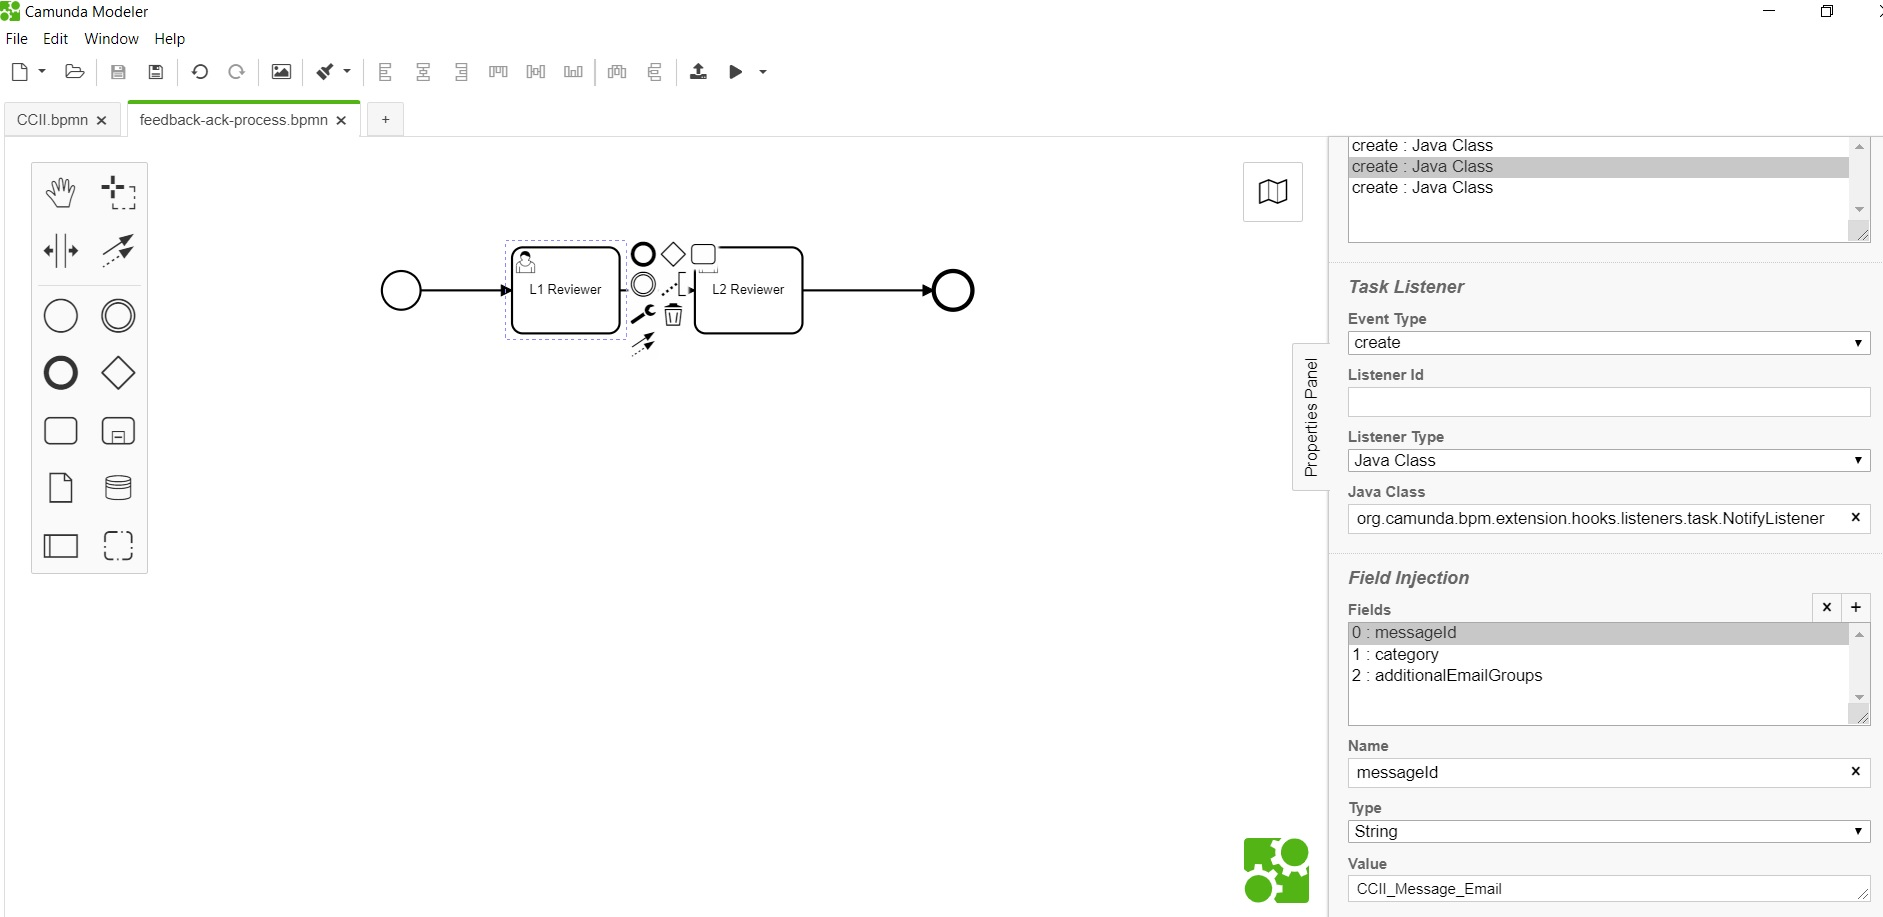
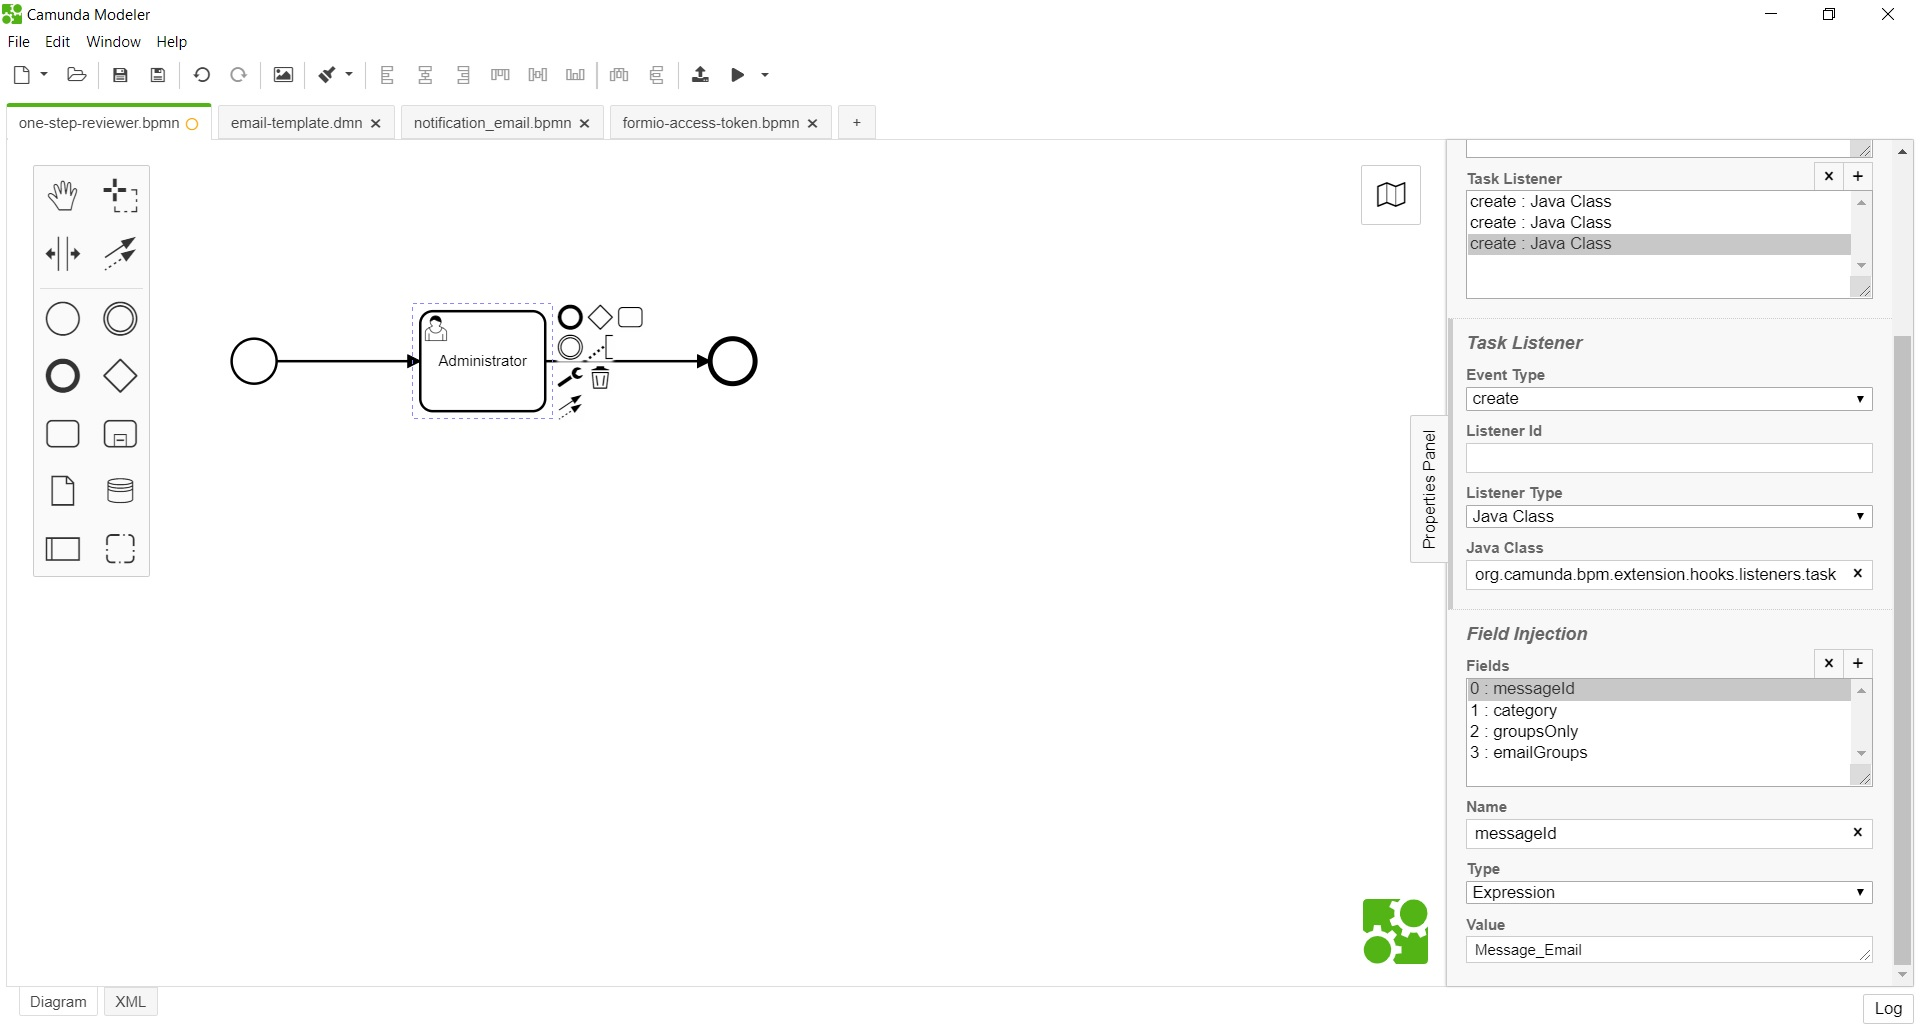
Update documentation of notify listener.

diff --git a/forms-flow-bpm/starter-examples/listeners/notify-readme.md b/forms-flow-bpm/starter-examples/listeners/notify-readme.md
@@ -3,7 +3,7 @@
 **org.camunda.bpm.extension.hooks.listeners.task.NotifyListener**
 
 This component can be used on **CREATE** event of task listener; and sends email upon task creation.
- It sends email to members of candidate's group and to members of **additionalEmailGroups** (Optional) .
+ It sends email to members of candidate's group and to members of **emailGroups** (Optional) .
 ## Table of Content
 * [Type](#type)
 * [How it Works](#how-it-works)
@@ -16,13 +16,15 @@ Task Listener
 ### How it Works
 
 This component relies on listed parameters.
-a. messageId [Mandatory = Yes]
-b. category [Mandatory = Yes]
-c. additionalEmailGroups [Mandatory = No]
+a. messageId [Mandatory = Yes]  
+b. category [Mandatory = Yes]  
+c. groupsOnly [Mandatory = Yes]  
+c. emailGroups [Mandatory = Yes]  
 
-- messageId : This maps to the any process event.
-- category: This maps to the email template DMN category.
-- additionalEmailGroups (Listener field of type expression). Takes in email group names as array. For example. ["ADMO","ED-Operations"].
+- messageId (Listener field of type expression): This maps to the any process event.
+- category (Listener field of type expression): This maps to the email template DMN category.  
+- groupsOnly (Listener field of type expression): This flags that the email to be sent only to **emailGroups**.   
+- emailGroups (Listener field of type expression): Takes in email group names as array. For example. ["ADMO","ED-Operations"].
 
 ### How to Use
 
@@ -30,10 +32,12 @@ Below snapshot shows how to configure the **NotifyListener** to a task.
 
 ##### FormConnectorListener being configured on create of task; with message event details. 
 
-![Form Connector listener (messageId) - Snapshot](./images/notify-listener-snp1.jpg)
+![Notify listener (messageId) - Snapshot](./images/notify-listener-snp1.jpg)
 
-![Form Connector listener (category) - Snapshot](./images/notify-listener-snp2.jpg)
+![Notify listener (category) - Snapshot](./images/notify-listener-snp2.jpg)
+
+![Notify listener (groupsOnly) - Snapshot](./images/notify-listener-snp3.jpg)
 
 ##### Below snapshot shows configuration of optional parameter (additionalEmailGroups).
 
-![Form Connector listener (additionalEmailGroups) - Snapshot](./images/notify-listener-snp3.jpg)
+![Notify listener (emailGroups) - Snapshot](./images/notify-listener-snp4.jpg)
